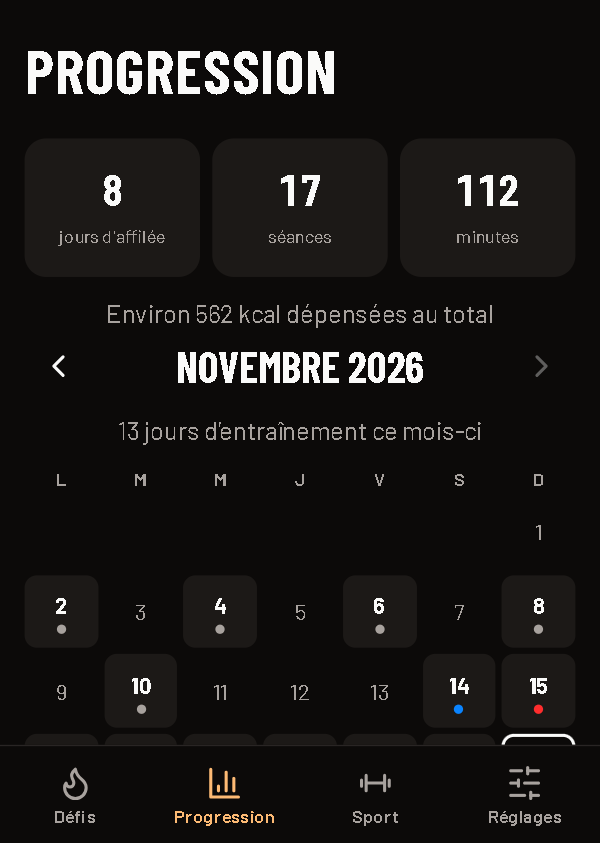
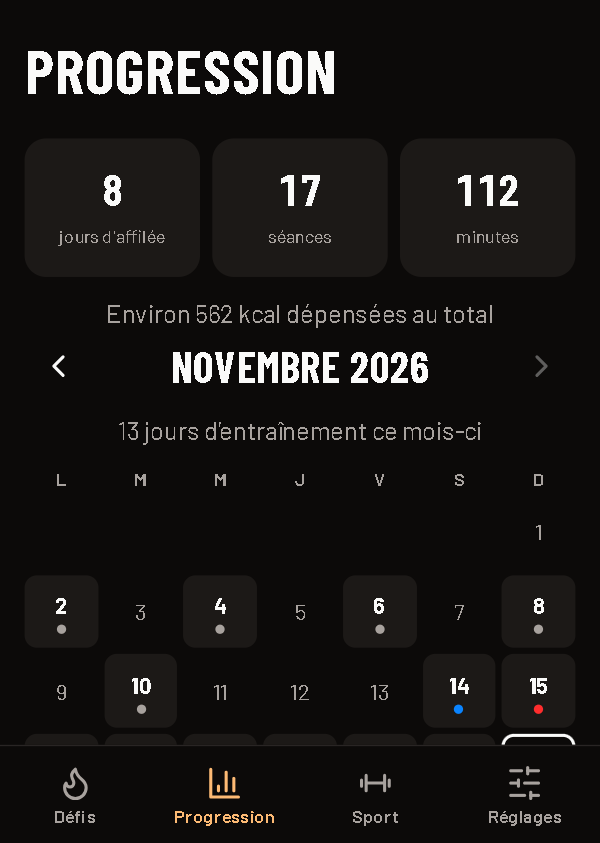
docs: version 1.13.3, captures refaites
Claude-Session: https://claude.ai/code/session_01BZRxRujbRo3f5uPADXuXHE

Changed region(s): [[0.27, 0.4009, 0.54, 0.4626], [0.6, 0.4009, 0.72, 0.4626]]

diff --git a/README.md b/README.md
@@ -24,6 +24,11 @@
     <td align="center"><img src="screenshots/8-creer-programme.png" alt="Création du programme : choix du défi prioritaire et semaine type en couleurs" width="240"><br><b>Créer son programme</b></td>
     <td align="center"><img src="screenshots/9-regles.png" alt="Carte Mes règles : bouton Début de mes règles, prochaines règles et ovulation prévues, effet des règles sur le poids" width="240"><br><b>Mes règles</b></td>
   </tr>
+  <tr>
+    <td align="center"><img src="screenshots/10-naissance.png" alt="Mes infos : date de naissance choisie en faisant défiler 3 colonnes (jour, mois, année), sexe et taille" width="240"><br><b>Date de naissance</b></td>
+    <td></td>
+    <td></td>
+  </tr>
 </table>
 
 *Captures réalisées avec des données d'exemple.*
@@ -75,6 +80,7 @@
 
 | Version | Date | Nouveautés |
 |---|---|---|
+| 1.13.3 | 22 nov. 2026 | Captures refaites (dont la date de naissance en colonnes) ; texte « Mes infos » mis à jour |
 | 1.13.2 | 22 nov. 2026 | Les téléphones rechargent les voix corrigées au lieu de garder les anciennes en mémoire |
 | 1.13.1 | 22 nov. 2026 | Voix du coach corrigées : plus de sons en trop, et les noms d'exercices anglais (Jumping jacks, Squat, Plank…) prononcés comme dans chaque langue |
 | **1.13** | 22 nov. 2026 | Voix du coach enregistrées, plus naturelles (femme ou homme, 9 langues, marchent hors connexion après la 1re écoute) ; 5 styles complets au choix ; date de naissance en colonnes qui défilent |
